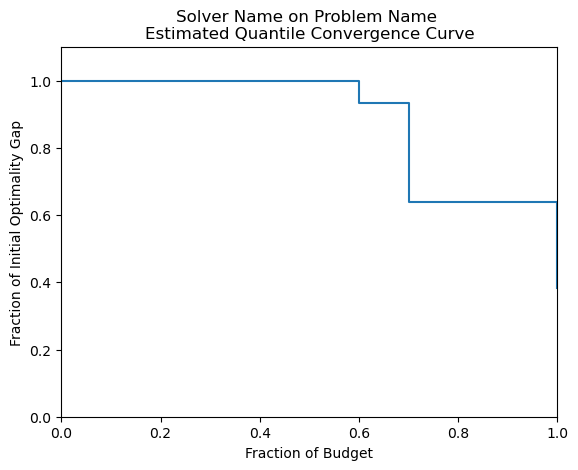
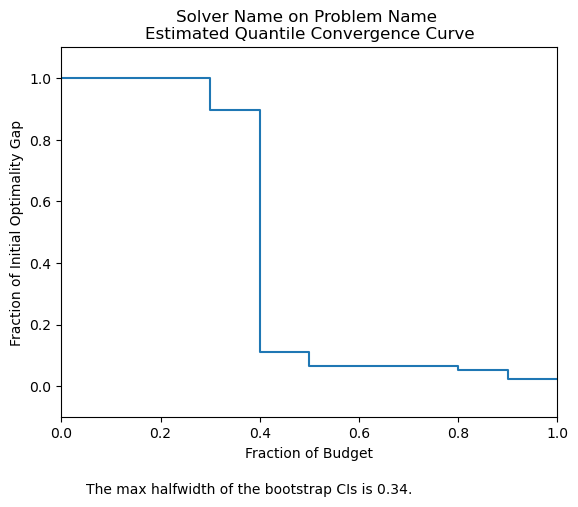
construct bootstrap CIs and report max halfwidth
When plotting mean or quantile convergence curve, bootstrap CI max halfwidths are reported in captions.

diff --git a/simopt/wrapper_base.py b/simopt/wrapper_base.py
@@ -182,7 +182,7 @@ class Experiment(object):
         # store convergence curve values for each macroreplication for each budget
         self.all_conv_curves = [[(self.all_est_objective[mrep][budget_index] - ref_opt_obj_val)/initial_opt_gap for budget_index in range(n_inter_budgets)] for mrep in range(self.n_macroreps)]
 
-    def make_plots(self, plot_type, beta=0.95, normalize=True):
+    def make_plots(self, plot_type, beta=0.50, normalize=True):
         """
         Produce plots of the solver's performance on the problem.
 
@@ -190,9 +190,6 @@ class Experiment(object):
         ---------
         plot_type : string
             indicates which type of plot to produce
-                "all" : all estimated convergence curves
-                "mean" : estimated mean convergence curve
-                "quantile" : estimated beta quantile convergence curve
                 "all" : all estimated convergence curves
                 "mean" : estimated mean convergence curve
                 "quantile" : estimated beta quantile convergence curve
@@ -210,7 +207,7 @@ class Experiment(object):
                     ylabel = "Fraction of Initial Optimality Gap",
                     title = "Solver Name on Problem Name \n" + "Estimated Convergence Curves",
                     xlim = (0, 1),
-                    ylim = (0, 1.1)
+                    ylim = (-0.1, 1.1)
                 )
                 plt.savefig('experiments/plots/all_conv_curves.png', bbox_inches='tight')
             else: # unnormalized
@@ -234,8 +231,12 @@ class Experiment(object):
                     ylabel = "Fraction of Initial Optimality Gap",
                     title = "Solver Name on Problem Name \n" + "Estimated Mean Convergence Curve",
                     xlim = (0, 1),
-                    ylim = (0, 1.1)
+                    ylim = (-0.1, 1.1)
                 )
+                # construct bootstrap confidence intervals are print caption
+                max_halfwidth = self.bootstrap_CI(plot_type=plot_type)
+                txt = "The max halfwidth of the bootstrap CIs is " + str(round(max_halfwidth,2)) + "."
+                plt.text(x=0.05, y=-0.35, s=txt)
                 plt.savefig('experiments/plots/mean_conv_curve.png', bbox_inches='tight')
             else: # unnormalized
                 plt.figure()
@@ -257,8 +258,12 @@ class Experiment(object):
                     ylabel = "Fraction of Initial Optimality Gap",
                     title = "Solver Name on Problem Name \n" + "Estimated Quantile Convergence Curve",
                     xlim = (0, 1),
-                    ylim = (0, 1.1)
+                    ylim = (-0.1, 1.1)
                 )
+                # construct bootstrap confidence intervals are print caption
+                max_halfwidth = self.bootstrap_CI(plot_type=plot_type, beta=beta)
+                txt = "The max halfwidth of the bootstrap CIs is " + str(round(max_halfwidth,2)) + "."
+                plt.text(x=0.05, y=-0.35, s=txt)
                 plt.savefig('experiments/plots/quantile_conv_curve.png', bbox_inches='tight')
             else: # unnormalized
                 plt.figure()
@@ -332,7 +337,6 @@ class Experiment(object):
         # uniformly resample M macroreplications (with replacement) from 0, 1, ..., M-1
         # subsubstream 0 is reserved for this outer-level bootstrapping
         mreps = bootstrap_rng.choices(range(self.n_macroreps), k=self.n_macroreps)
-        print(mreps)
         # advance random number generator subsubstream to prepare for inner-level bootstrapping
         bootstrap_rng.advance_subsubstream()
         for bs_mrep in range(self.n_macroreps):
@@ -363,7 +367,6 @@ class Experiment(object):
                 bootstrap_rng.reset_subsubstream()
             # compute initial optimality gap
             bs_initial_opt_gap = bs_initial_obj_val - bs_ref_opt_obj_val
-            print(bs_initial_opt_gap)
             # inner-level bootstrapping over intermediate recommended solutions
             for budget in range(len(self.unique_budgets)):
                 n_postreps_taken = len(self.all_post_replicates[mrep][budget])
@@ -398,7 +401,43 @@ class Experiment(object):
         bootstrap_rng.advance_substream()
         return bootstrap_conv_curves
 
-#    def bootstrap_CI(self, n_bootstraps)
+    def bootstrap_CI(self, plot_type, n_bootstraps=100, conf_level=0.95,  beta=0.50):
+        """
+        Construct bootstrap confidence intervals and compute max half-width.
+
+        Arguments
+        ---------
+        plot_type : string
+            indicates which type of plot to produce
+                "all" : all estimated convergence curves
+                "mean" : estimated mean convergence curve
+                "quantile" : estimated beta quantile convergence curve
+        n_bootstraps : int > 0
+            number of times to generate a bootstrap sample of estimated convergence curves
+        conf_level : float in (0,1)
+            confidence level for confidence intervals, i.e., 1-alpha
+        beta : float
+            quantile for quantile aggregate convergence curve, e.g., beta quantile 
+        Returns
+        -------
+        max_halfwidth : float
+            maximum halfwidth of all bootstrap confidence intervals constructed
+        """
         # create random number generator for bootstrap sampling
         # Stream 1 dedicated for bootstrapping
-#        bootstrap_rng = MRG32k3a(s_ss_sss_index=[1, 0, 0])
+        bootstrap_rng = MRG32k3a(s_ss_sss_index=[1, 0, 0])
+        # initialize storage for bootstrap aggregate curves
+        bs_aggregate_curves = np.zeros((n_bootstraps, len(self.unique_budgets)))
+        for bs_index in range(n_bootstraps):
+            # generate bootstrap sample of estimated convergence curves
+            bootstrap_conv_curves = self.bootstrap_sample(bootstrap_rng=bootstrap_rng, crn_across_budget=True, crn_across_macroreps=False)
+            # apply the functional of the bootstrap sample, e.g., mean/quantile (aggregate) convergence curve
+            if plot_type == "mean": # mean convergence curve
+                bs_aggregate_curves[bs_index] = np.mean(bootstrap_conv_curves, axis=0)
+            elif plot_type == "quantile": # quantile convergence curve
+                bs_aggregate_curves[bs_index] = np.quantile(bootstrap_conv_curves, q=beta, axis=0)
+        # compute usual bootstrapping confidence intervals
+        bs_CI_lower_bounds = np.quantile(bs_aggregate_curves, q=(1-conf_level)/2, axis=0)
+        bs_CI_upper_bounds = np.quantile(bs_aggregate_curves, q=(1-(1-conf_level)/2), axis=0)
+        max_halfwidth = np.max((bs_CI_upper_bounds - bs_CI_lower_bounds)/2)
+        return max_halfwidth

diff --git a/simopt/test_run_wrapper.py b/simopt/test_run_wrapper.py
@@ -8,15 +8,15 @@ from oracles.mm1queue import MM1Queue
 from experiments.rs_on_mm1 import RandomSearchOnMM1
 
 myexperiment = RandomSearchOnMM1()
-myexperiment.run(n_macroreps=10, crn_across_solns=True)
+myexperiment.run(n_macroreps=20, crn_across_solns=True)
 myexperiment.post_replicate(n_postreps=10, n_postreps_init_opt=50, crn_across_budget=True, crn_across_macroreps=False)
 #myexperiment.make_plots(plot_type="all")
-#myexperiment.make_plots(plot_type="mean")
-#myexperiment.make_plots(plot_type="quantile")
+myexperiment.make_plots(plot_type="mean")
+myexperiment.make_plots(plot_type="quantile")
 #myexperiment.make_plots(plot_type="all", normalize=False)
 #myexperiment.make_plots(plot_type="mean", normalize=False)
 #myexperiment.make_plots(plot_type="quantile", normalize=False)
-bootstrap_rng = MRG32k3a(s_ss_sss_index=[1, 0, 0])
-new_data = myexperiment.bootstrap_sample(bootstrap_rng, crn_across_budget=True, crn_across_macroreps=False)
+#bootstrap_rng = MRG32k3a(s_ss_sss_index=[1, 0, 0])
+#new_data = myexperiment.bootstrap_sample(bootstrap_rng, crn_across_budget=True, crn_across_macroreps=False)
 
 print('I ran this.')
